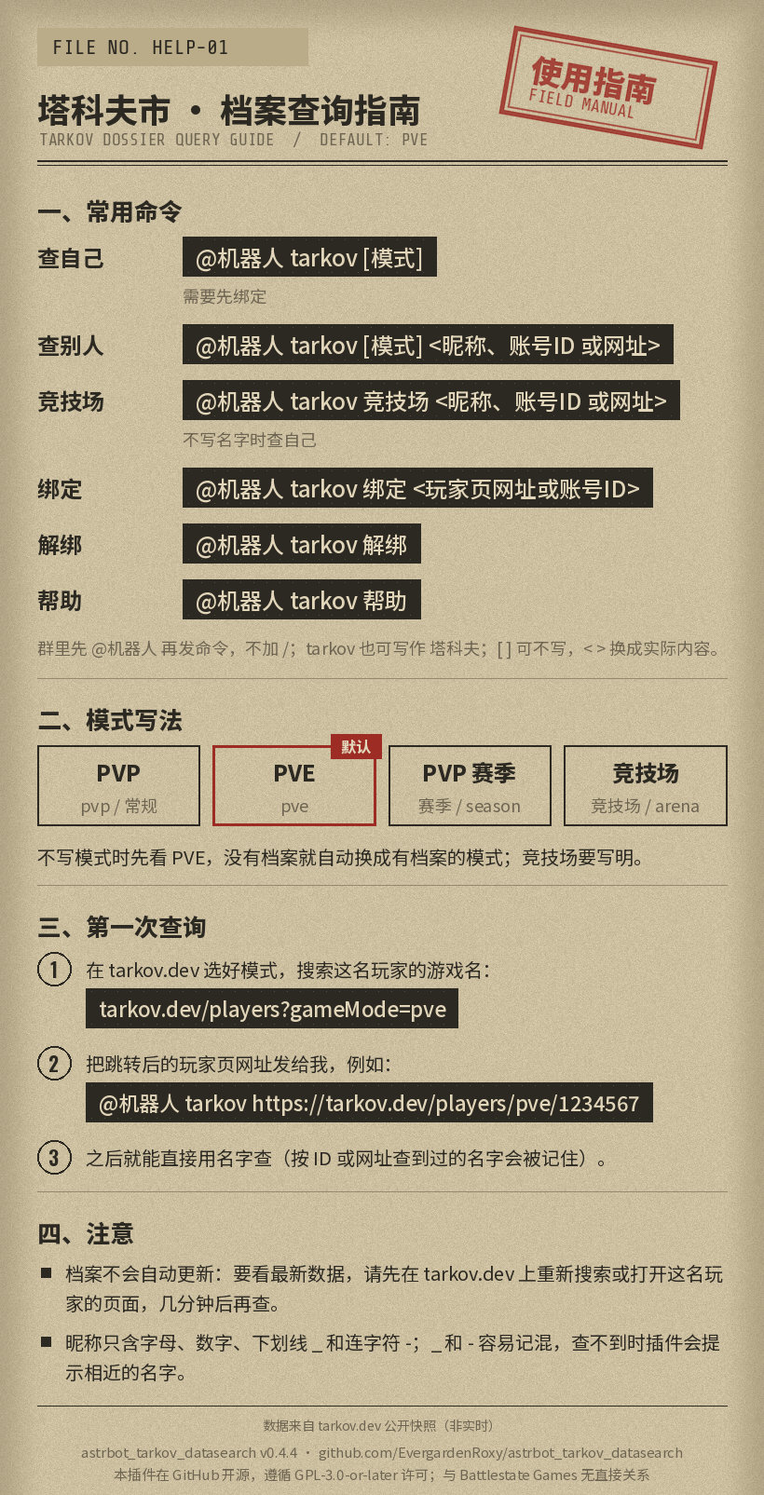
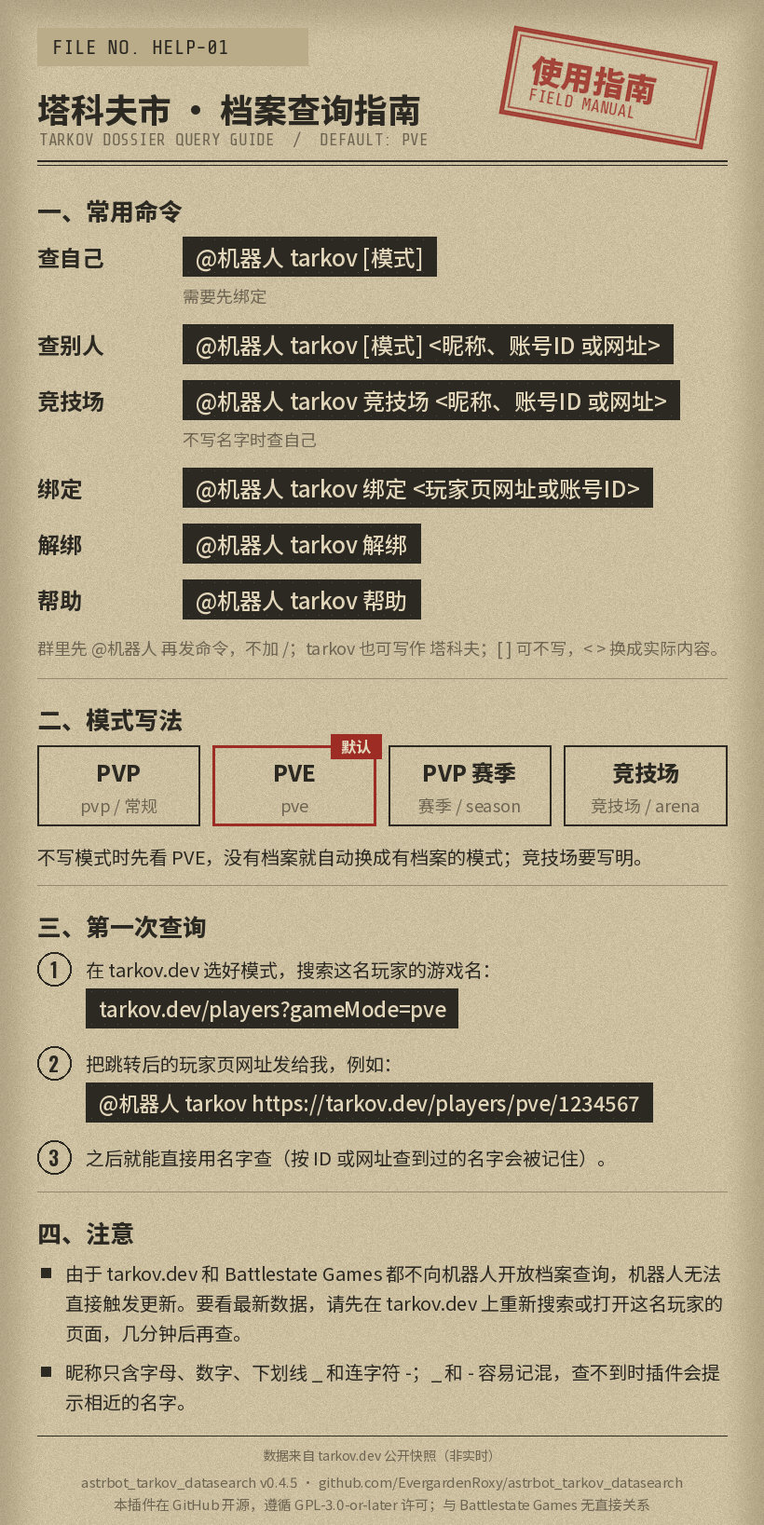
Release 0.4.5: server status, Boss spawn rates, QQ official command entry
Claude-Session: https://claude.ai/code/session_0173oty1rPcMj9BNxsmXo6Ca

diff --git a/tools/build_preview.py b/tools/build_preview.py
@@ -1,4 +1,4 @@
-"""Rebuild docs/preview.jpg, docs/arena_preview.jpg and docs/help_preview.jpg, and print the README text example, from invented profiles.
+"""Rebuild docs/preview.jpg, arena_preview.jpg, help_preview.jpg, boss_preview.jpg, boss_changes_preview.jpg and status_preview.jpg, and print the README text example, from invented profiles.
 
     python tools/build_preview.py
 
@@ -21,16 +21,73 @@ from fixtures import arena_profile, profile  # noqa: E402
 from tarkov_core import COMMAND_STYLES  # noqa: E402
 from tarkov_core.arena import build_arena_card, summarize_arena  # noqa: E402
 from tarkov_core.arena_image import render_arena_image  # noqa: E402
+from tarkov_core.boss_monitor import build_table, normalize_bosses  # noqa: E402
+from tarkov_core.boss_table_image import MAP_LABELS, change_lines, paginate_table, render_boss_page  # noqa: E402
 from tarkov_core.card import build_card  # noqa: E402
 from tarkov_core.help_image import render_help_image  # noqa: E402
 from tarkov_core.image import render_image  # noqa: E402
 from tarkov_core.modes import page_url, search_url  # noqa: E402
 from tarkov_core.output import render_text  # noqa: E402
 from tarkov_core.profile import summarize  # noqa: E402
+from tarkov_core.server_status import normalize_status  # noqa: E402
+from tarkov_core.status_image import render_status_image  # noqa: E402
 
 SKILLS = {'Endurance': 5100, 'Strength': 5100, 'Metabolism': 5100, 'Attention': 5100, 'Charisma': 4000,
           'Perception': 3500, 'Search': 3000, 'Surgery': 2600, 'Vitality': 2500, 'Throwing': 2000, 'MagDrills': 1800,
           'Health': 1500, 'StressResistance': 1200, 'Assault': 1000}
+
+NOW = 1791000000
+# Invented Boss rates for the documentation pictures (not real game data).
+BOSS_SAMPLE = {
+    '55f2d3fd4bdc2d5f408b4567': {'bossBully': ['0.35']}, '59fc81d786f774390775787e': {'bossBully': ['0.35']},
+    '56f40101d2720b2a4d8b45d6': {'bossBully': ['0.35']}, '5704e3c2d2720bac5b8b4567': {'bossKojaniy': ['0.4'], 'bossBully': ['0.3']},
+    '5704e554d2720bac5b8b456e': {'bossKnight': ['0.6'], 'bossBully': ['0.25']}, '5714dbc024597771384a510d': {'bossBoar': ['0.4', '1']},
+    '5704e5fad2720bc05b8b4567': {'bossGluhar': ['0.35'], 'bossBully': ['0.3']},
+    '5704e4dad2720bb55b8b4567': {'bossZryachiy': ['1'], 'bossPartisan': ['0.2'], 'bossKnight': ['0.5']},
+    '5714dc692459777137212e12': {'bossSanitar': ['0.25'], 'bossKilla': ['0.4'], 'bossTagilla': ['0.3']},
+    '5b0fc42d86f7744a585f9105': {'bossSanitar': ['0.1'], 'bossKilla': ['0.5'], 'bossScourgeEventLab': ['1']},
+    '65b8d6f5cdde2479cb2a3125': {'sectantPriest': ['0.02'], 'bossKolontay': ['0.1']}}
+BOSS_NAMES = {'bossTagilla': 'Tagilla', 'bossBully': 'Reshala', 'bossKojaniy': 'Shturman', 'bossSanitar': 'Sanitar',
+              'bossKilla': 'Killa', 'bossGluhar': 'Glukhar', 'bossZryachiy': 'Zryachiy', 'bossBoar': 'Kaban',
+              'bossKolontay': 'Kollontay', 'bossPartisan': 'Partisan', 'sectantPriest': 'Priest', 'bossKnight': 'Knight',
+              'bossScourgeEventLab': 'Scourge'}
+
+
+def boss_state(sample):
+    maps = {}
+    for map_id, name in MAP_LABELS:
+        records = [{'mob': mob, 'spawnChance': float(rate), 'spawnTime': i, 'spawnTimeRandom': False, 'spawnLocations': []}
+                   for mob, rates in sample.get(map_id, {}).items() for i, rate in enumerate(rates)]
+        maps[map_id] = {'name': name, 'bosses': records}
+    mobs = {mob: {'name': name, 'normalizedName': 'scourge' if mob == 'bossScourgeEventLab' else mob.lower()}
+            for mob, name in BOSS_NAMES.items()}
+    return normalize_bosses({'maps': maps, 'mobs': mobs})
+
+
+def boss_pictures():
+    meta = {'mode': 'pve', 'checked_at': NOW, 'fetched_at': NOW-300, 'stale': False}
+    before = boss_state(BOSS_SAMPLE)
+    rows, _ = build_table(None, before)
+    query = render_boss_page(paginate_table(meta, rows)[0])
+    changed = {map_id: {mob: list(rates) for mob, rates in mobs.items()} for map_id, mobs in BOSS_SAMPLE.items()}
+    changed['5704e554d2720bac5b8b456e']['bossKnight'] = ['0.8']
+    changed['5714dbc024597771384a510d']['bossBoar'] = ['0.4']
+    changed['5704e4dad2720bb55b8b4567']['bossZryachiy'] = ['0.5']
+    changed['5b0fc42d86f7744a585f9105']['bossTagilla'] = ['1']
+    rows, _ = build_table(before, boss_state(changed))
+    page = paginate_table({**meta, 'compared_at': NOW-600}, rows)[0]
+    page['change_lines'] = change_lines(rows, {column['map_id'] for column in page['columns']})
+    return query, render_boss_page(page)
+
+
+def status_picture():
+    data = {'generalStatus': {'name': 'Global', 'statusCode': 'OK'},
+            'currentStatuses': [{'_id': 'auth', 'name': 'Authentication', 'statusCode': 'OK'},
+                                {'_id': 'match', 'name': 'Matchmaking', 'statusCode': 'OK'},
+                                {'_id': 'trading', 'name': 'Trading', 'statusCode': 'OK'}],
+            'messages': []}
+    return render_status_image({'state': normalize_status(data), 'checked_at': NOW, 'fetched_at': NOW-60,
+                                'from_cache': False, 'stale': False, 'last_modified': None})
 
 
 def demo():
@@ -51,4 +108,8 @@ if __name__ == '__main__':
     help_card = {'command': style['command'], 'note': style['note'], 'mode': 'pve', 'label': 'PVE', 'search': search_url('pve'), 'example': page_url('pve', 1234567),
                  'arena_by_default': False, 'index': None}
     (ROOT/'docs'/'help_preview.jpg').write_bytes(render_help_image(help_card))
+    boss_query, boss_changes = boss_pictures()
+    (ROOT/'docs'/'boss_preview.jpg').write_bytes(boss_query)
+    (ROOT/'docs'/'boss_changes_preview.jpg').write_bytes(boss_changes)
+    (ROOT/'docs'/'status_preview.jpg').write_bytes(status_picture())
     print(render_text(card))

diff --git a/tests/test_output.py b/tests/test_output.py
@@ -81,7 +81,7 @@ class OutputTests(unittest.TestCase):
             'Scav：战局 50，撤离 30，存活率 60.0%', '　击杀 100，死亡 10，K/D 10.00，击杀 PMC 20，PMC K/D 2.00', '　匆匆逃离 5，KIA 15，最长连续存活 5 局',
             '精英技能（2 项）：耐力、力量', '其他技能（前 2 项）：魅力 40、活力 25', '', '数据来自 tarkov.dev，档案更新于 2026-10-03 12:00（北京时间）', 'n',
             # Maintainer: every text reply ends with the repository and the open-source statement.
-            'astrbot_tarkov_datasearch v0.4.4 · https://github.com/EvergardenRoxy/astrbot_tarkov_datasearch', '本插件在 GitHub 开源，遵循 GPL-3.0-or-later 许可；与 Battlestate Games 无直接关系']))
+            'astrbot_tarkov_datasearch v0.4.5 · https://github.com/EvergardenRoxy/astrbot_tarkov_datasearch', '本插件在 GitHub 开源，遵循 GPL-3.0-or-later 许可；与 Battlestate Games 无直接关系']))
 
     def test_pmc_kd_is_pmc_kills_per_death(self):
         # Maintainer: PMC K/D = PMC kills / deaths, after the PMC kills, in every non-Arena output.
@@ -96,10 +96,10 @@ class OutputTests(unittest.TestCase):
 
     def test_markdown_ends_with_the_source(self):
         text = render_markdown(build_card(summarize(profile()), 'PVE', now=NOW))
-        self.assertTrue(text.endswith('>\n> astrbot\\_tarkov\\_datasearch v0.4.4 · https://github.com/EvergardenRoxy/astrbot_tarkov_datasearch\n'
+        self.assertTrue(text.endswith('>\n> astrbot\\_tarkov\\_datasearch v0.4.5 · https://github.com/EvergardenRoxy/astrbot_tarkov_datasearch\n'
                                       '> 本插件在 GitHub 开源，遵循 GPL-3.0-or-later 许可；与 Battlestate Games 无直接关系'))
 
     def test_prestige_and_notes(self):
         text = render(summarize(profile(info_prestigeLevel=2)), 'PVP', notes=['注意：测试'], now=NOW)
         self.assertIn('声望 2', text)
-        self.assertTrue(text.endswith('注意：测试\n' + 'astrbot_tarkov_datasearch v0.4.4 · https://github.com/EvergardenRoxy/astrbot_tarkov_datasearch' + '\n' + '本插件在 GitHub 开源，遵循 GPL-3.0-or-later 许可；与 Battlestate Games 无直接关系'))
+        self.assertTrue(text.endswith('注意：测试\n' + 'astrbot_tarkov_datasearch v0.4.5 · https://github.com/EvergardenRoxy/astrbot_tarkov_datasearch' + '\n' + '本插件在 GitHub 开源，遵循 GPL-3.0-or-later 许可；与 Battlestate Games 无直接关系'))

diff --git a/tests/test_image.py b/tests/test_image.py
@@ -86,7 +86,7 @@ class ImageTests(unittest.TestCase):
                     _, picture = draw(summarize(profile()), notes=notes)
                 (x1, y1), plugin = drawn[-2]
                 (x2, y2), licence = drawn[-1]
-                self.assertEqual(plugin, 'astrbot_tarkov_datasearch v0.4.4 · github.com/EvergardenRoxy/astrbot_tarkov_datasearch')
+                self.assertEqual(plugin, 'astrbot_tarkov_datasearch v0.4.5 · github.com/EvergardenRoxy/astrbot_tarkov_datasearch')
                 self.assertEqual(licence, '本插件在 GitHub 开源，遵循 GPL-3.0-or-later 许可；与 Battlestate Games 无直接关系')
                 # Last on the page, inside it, and centred (maintainer: they were crowded on the left).
                 self.assertGreater(y1, max(xy[1] for xy, _ in drawn[:-2]))

diff --git a/main.py b/main.py
@@ -72,7 +72,7 @@ def every(seconds):
     return f'每 {hours} 小时'
 
 
-@register('astrbot_tarkov_datasearch', 'Evergarden_Roxy', '绑定并查询塔科夫玩家档案（数据来自 tarkov.dev）', '0.4.4')
+@register('astrbot_tarkov_datasearch', 'Evergarden_Roxy', '绑定并查询塔科夫玩家档案（数据来自 tarkov.dev）', '0.4.5')
 class TarkovPlugin(Star):
     def __init__(self, context: Context, config: AstrBotConfig):
         super().__init__(context)

diff --git a/tarkov_core/__init__.py b/tarkov_core/__init__.py
@@ -1,5 +1,5 @@
 # Release version; metadata.yaml, the @register literal in main.py and CHANGELOG.md must match (tests check it).
-VERSION = '0.4.4'
+VERSION = '0.4.5'
 # Shown at the foot of every image reply (maintainer). metadata.yaml `repo` and LICENSE must match (tests check it).
 NAME = 'astrbot_tarkov_datasearch'
 REPO = 'https://github.com/EvergardenRoxy/astrbot_tarkov_datasearch'

diff --git a/README.md b/README.md
@@ -5,7 +5,7 @@
 > [!IMPORTANT]
 > **AI 制作声明：塔科夫玩家数据查询采用生成式 AI 参与架构设计、编码、文档与测试。** AI 生成或修改的内容由项目维护者审阅、验证并承担最终维护责任。
 >
-> 参与的 AI：**Claude Opus 5.5**（通过 **Claude Code**）参与 0.1.0 至 0.4.4 版本的数据源调研与实测、方案制定、编码、测试、图片回复的设计与绘制、配置页说明，以及更新日志、核对清单（`checklist.md`）与交接文档（`handoff.md`）的编写。
+> 参与的 AI：**Claude Opus 5.5**（通过 **Claude Code**）参与 0.1.0 至 0.4.4 版本的数据源调研与实测、方案制定、编码、测试、图片回复的设计与绘制、配置页说明，以及更新日志、核对清单（`checklist.md`）与交接文档（`handoff.md`）的编写。0.4.5 版本由 **Claude**（通过 **Claude Code**）接手开发，参与服务器状态、Boss 刷率、QQ 官方机器人命令入口的实现、测试与文档；Boss 图的背景纹理由维护者用 **GPT-Image-2.5-sunburst** 生成。
 
 ## tarkov.dev 对机器人调用的限制与现状
 
@@ -28,6 +28,9 @@
 - 竞技场：分非排位和排位显示对局、击杀、死亡、K/D、最佳 ARP 和段位、最长连杀、最长连胜，以及各模式的胜场、胜率和 MVP。
 - 每次回复附上这名玩家的 tarkov.dev 页面链接和档案更新时间，超过 30 天没有更新会注明；按旧名字查到改过名的玩家时会注明现在的昵称。
 - 三种回复方式（图片、文字、Markdown 文字）；支持所有人、仅管理员、管理员和指定用户三种权限，也可限定聊天。
+- **服务器状态**（0.4.5 新增，默认关闭）：`@机器人 tarkov status` 回复服务器及各组件的状态图片，可开启状态变化推送。
+- **Boss 刷率**（0.4.5 新增，默认关闭）：`@机器人 tarkov boss` 回复各地图日常 Boss 与三狗的刷率全表图，另显示实验室等地图上的活动 Boss；刷率有变化时可推送。
+- **QQ 官方机器人**：支持 `@机器人 /命令` 写法（见“命令写法”设置）。
 
 ## 安装与配置
 
@@ -91,6 +94,50 @@
   | A+ | Professional | 7001–7900 |
   | S 及以上 | 竞技场前100名玩家 | 7900 以上（不显示具体 ARP） |
 
+## 服务器状态与 Boss 刷率（可选功能）
+
+这两项功能读取 [json.tarkov.dev](https://json.tarkov.dev) 的公开游戏数据（不是玩家档案），**默认关闭**，由管理员在配置页逐项开启。关闭时不下载对应数据，也不启动后台任务。回复目前**只有图片**，不受“输出方式”设置影响；文字和 Markdown 版本暂未提供。
+
+**命令**（`@机器人` 写法与 `/` 写法都能用，见“命令写法”）：
+
+```text
+@机器人 tarkov status                 （服务器状态；也可写 状态）
+@机器人 tarkov boss                   （Boss 刷率全表，所有监控模式各一张）
+@机器人 tarkov boss pve               （只看 PVE；也可写 pvp、赛季）
+@机器人 tarkov boss 变化              （最近一次刷率变化，变化标红，图下方文字说明）
+@机器人 tarkov boss 页 <快照编号> <页码>（长表续页，编号在图下方注明）
+```
+
+另外还有不加 `tarkov` 的短命令 `status`（状态）和 `boss`（刷率）；与其他插件冲突时，在配置里关闭“启用简短查询命令”，`tarkov status`、`tarkov boss` 仍可用。
+
+**设置**（各项都在配置页，保存后重载生效）：
+
+- **服务器状态图片查询**、**服务器状态变化图片播报**、**服务器状态轮询间隔**（2～30 分钟，默认 5）、**播报目标**、**允许向 QQ 官方机器人会话播报状态**。
+- **Boss 刷率功能总开关**：关闭后整个 Boss 功能停用，不能查询，也不会轮询或推送。
+- **Boss 刷率变化推送**：只控制后台轮询和推送，关闭后查询照常；开启还要求总开关已开、有监控模式和播报目标。**Boss 刷率轮询间隔**（2～30 分钟，默认 10）、**监控模式**（默认 pvp、pve、赛季）、**播报目标**、**允许向 QQ 官方会话播报 Boss 刷率**。
+- **播报目标**要填完整的 AstrBot 会话标识（聊天中发送 `/sid` 查看），最多 50 个；留空就不轮询、不播报。播报不会发给所有会话，只发给你填写的目标。首次成功只建立基线，不推送；之后有变化才推送。插件只能“提交”消息，不能确认对方收到。
+- **公共游戏数据缓存时间**（默认 5 分钟）：状态和 Boss 共用，只在过期后的查询里检查更新。
+- **手动拉取/更新 Boss 头像**：执行一次后自动关闭，头像从 assets.tarkov.dev 取得，缓存 365 天；平时不会自动下载，没有头像时用占位图。
+- **不当作活动 Boss 的怪物**（高级）：见下。
+
+**Boss 图怎么看**：
+
+- 行是 Boss，列是地图（中心区、白天工厂、夜间工厂、海关、森林、海岸线、立交桥、储备站、灯塔、塔科夫街区、实验室），格子里是刷率，左上角写模式。固定的行是 Tagilla、Reshala、Shturman、Sanitar、Killa、Glukhar、Zryachiy、Kaban、Kollontay、Partisan、邪教徒祭司和三狗 GOONS。同一格里有多个概率时分别显示，不相加。空白表示上游没有列出。
+- 100% 的刷率用红色粗体，该 Boss 的名字也标红。
+- **活动 Boss**：固定行之外，地图上列出的 Boss 记录，除 Raider、黑色军团、USEC、BEAR、游荡者、守军这几类普通怪物之外，都显示为“活动 <名字>”行，最多 3 行，超出时注明数量。上游新增了不想显示的普通怪物时，把它的 `normalizedName`（例如 `raider`）填进“不当作活动 Boss 的怪物”。
+- **变化推送**：图和全表相同，变化的格子标红，图下方用文字列出“本次变化”，例如“三狗 GOONS（海岸线）：60%→80%”；活动 Boss 出现或结束也会列出。格子里只显示新值。
+- 没有包含在表里的：破冰船、原中心区、实验室 Dark、迷宫、中心区教程、码头，以及普通 AI。
+
+![服务器状态示例](docs/status_preview.jpg)
+
+![Boss 刷率示例](docs/boss_preview.jpg)
+
+![Boss 变化推送示例](docs/boss_changes_preview.jpg)
+
+这些示例的数值都是虚构的，由 `tools/build_preview.py` 生成。
+
+**注意**：QQ 官方机器人的图片回复和主动推送（群权限、平台限制）还没有在真实环境里验证过；不同 AstrBot 版本和机器人权限对主动推送的支持不同，开启前请先在测试群里试一次。
+
 ## 回复方式
 
 在配置“输出方式”中选择，默认是图片：
@@ -99,7 +146,7 @@
 - **文字**：纯文字，任何平台都能正常显示。
 - **Markdown 文字**：带标题、表格和加粗，适合 Telegram、Discord 等；在 QQ 等平台上会显示出原始符号。
 
-`@机器人 tarkov 帮助` 跟随这个设置：选“图片”时回复一张用法图片，否则回复文字版用法。找不到玩家、同名列表和出错提示，无论选哪种方式都以文字回复。
+`@机器人 tarkov 帮助` 跟随这个设置：选“图片”时回复一张用法图片，否则回复文字版用法。找不到玩家、同名列表和出错提示，无论选哪种方式都以文字回复。服务器状态和 Boss 刷率只回复图片。
 
 ![图片回复示例](docs/preview.jpg)
 
@@ -126,7 +173,7 @@ Scav：战局 50，撤离 30，存活率 60.0%
 
 数据来自 tarkov.dev，档案更新于 2026-10-03 12:00（北京时间）
 数据不会自动更新：在 tarkov.dev 用该模式搜索一次这名玩家，或打开 https://tarkov.dev/players/pve/1234567，即可刷新档案，几分钟后再查。
-astrbot_tarkov_datasearch v0.4.4 · https://github.com/EvergardenRoxy/astrbot_tarkov_datasearch
+astrbot_tarkov_datasearch v0.4.5 · https://github.com/EvergardenRoxy/astrbot_tarkov_datasearch
 本插件在 GitHub 开源，遵循 GPL-3.0-or-later 许可；与 Battlestate Games 无直接关系
 ```
 
@@ -142,7 +189,8 @@ astrbot_tarkov_datasearch v0.4.4 · https://github.com/EvergardenRoxy/astrbot_ta
 - **默认模式**：命令里没写模式时使用，默认 PVP。
 - **不写模式时也查竞技场**：默认关闭，开启后每次多一个请求。
 - **输出方式**：图片（默认）、文字或 Markdown 文字。
-- **命令写法**：`@机器人 tarkov`（默认）或 `/tarkov`，只影响显示。
+- **命令写法**：`@机器人 tarkov`（默认）、`/tarkov`，或 QQ 官方机器人提及后加斜杠的 `@机器人 /tarkov`，只影响显示。
+- **QQ 官方机器人提及后斜杠命令兼容**：默认开启，让 `@机器人 /tarkov …`、`/status`、`/boss` 在 QQ 官方平台也能触发；关闭不影响框架本来能识别的命令。
 - **谁可以使用**：所有人（默认）、仅管理员，或管理员和指定用户。“管理员”指 AstrBot 管理员，不是 QQ 群管理员。
 - **指定用户 / 限定聊天**：填写平台用户 ID（例如 QQ 号）和 AstrBot 会话标识（聊天中发送 `/sid` 查看），留空不限制聊天。手工编辑配置文件时应为列表；写成其他类型时拒绝所有人。
 - **显示的技能数**：精英技能总是全部列出，这里设置其余技能显示几项，默认 10，设为 0 不显示。
@@ -158,6 +206,9 @@ astrbot_tarkov_datasearch v0.4.4 · https://github.com/EvergardenRoxy/astrbot_ta
   - 绑定关系：平台和用户 ID 的带密钥哈希（HMAC-SHA256）→ 账号 ID 和昵称，不保存 QQ 号等原始 ID；`@机器人 tarkov 解绑` 会删除自己的绑定。密钥是第一次运行时随机生成的 `binding.key`，删除它会让所有绑定失效。拿到数据库但没有密钥无法还原 QQ 号，同时拿到密钥的人仍可逐个尝试，请像对待聊天记录一样保管整个数据目录。
   - 所有人共享的“名字 → 账号 ID”记录：每次绑定、每次查到档案时更新，最多 20 万条，超出时删除最久没见过的。这些名字本来就在 tarkov.dev 公开。
 - `names-profile.sqlite3`、`names-pve.sqlite3`、`names-pvp-season.sqlite3`：只在开启昵称名单后生成，可以随时删除。
+- `public-data/resources.sqlite3`：服务器状态和 Boss 的公共游戏数据缓存（最多 32 项、约 128 MiB），首次查询时才生成，可以随时删除。
+- `notifications.sqlite3`、`boss-notifications.sqlite3`：只在开启并配置了对应播报后生成，保存变化基线、待发事件、逐目标的发送状态和长表快照（事件保留 7 天）；删除后下次观察会重新静默建立基线。
+- `boss-portraits/`：只在手动更新 Boss 头像后生成，是缩小的头像缓存，可以随时删除。
 - 玩家档案只缓存在内存中，图片在内存中生成后直接发送，都不写入磁盘。
 - 插件不另存“谁查询了谁”；但 AstrBot 的日志会记下每条消息的发送者和内容，插件日志里也有被查询的昵称或 ID，请像对待聊天记录一样保管日志。
 
@@ -165,7 +216,7 @@ astrbot_tarkov_datasearch v0.4.4 · https://github.com/EvergardenRoxy/astrbot_ta
 
 本项目采用 **GNU General Public License v3.0 or later（GPL-3.0-or-later）**。完整许可见 [LICENSE](LICENSE)，数据来源与第三方声明见 [THIRD_PARTY.md](THIRD_PARTY.md)。
 
-图片使用的三款字体（思源黑体 Noto Sans SC 的裁剪版、Oswald、Share Tech Mono）采用 SIL Open Font License 1.1，许可文本与字体一起放在 `tarkov_core/fonts/`。
+Boss 图的背景纹理是 AI 生成的图片（见 [THIRD_PARTY.md](THIRD_PARTY.md)）。图片使用的三款字体（思源黑体 Noto Sans SC 的裁剪版、Oswald、Share Tech Mono）采用 SIL Open Font License 1.1，许可文本与字体一起放在 `tarkov_core/fonts/`。
 
 本插件与 Battlestate Games 和 tarkov.dev 没有关联。
 

diff --git a/CHANGELOG.md b/CHANGELOG.md
@@ -1,11 +1,47 @@
 [![AI Co-created](https://img.shields.io/badge/AI-Claude%20Opus%205.5%20%2B%20Claude%20Code-D97757?style=for-the-badge&logo=anthropic&logoColor=white)](README.md#ai-制作声明)
 
 > [!IMPORTANT]
-> **AI 共创声明：本更新日志所记录的修改与日志本身，由项目维护者与生成式 AI 共同完成。** **Claude Opus 5.5**（通过 **Claude Code**）参与 0.1.0 至 0.4.4 版本的数据源调研、方案制定、编码、测试、图片回复的设计与绘制，以及本日志与交接文档 `handoff.md` 的编写。AI 生成或修改的内容由项目维护者审阅、验证并承担最终维护责任。完整声明见 [README](README.md#ai-制作声明)。
+> **AI 共创声明：本更新日志所记录的修改与日志本身，由项目维护者与生成式 AI 共同完成。** **Claude Opus 5.5**（通过 **Claude Code**）参与 0.1.0 至 0.4.4 版本的数据源调研、方案制定、编码、测试、图片回复的设计与绘制，以及本日志与交接文档 `handoff.md` 的编写。0.4.5 版本由 **Claude**（通过 **Claude Code**）接手开发，Boss 图背景纹理由维护者用 GPT-Image-2.5-sunburst 生成。AI 生成或修改的内容由项目维护者审阅、验证并承担最终维护责任。完整声明见 [README](README.md#ai-制作声明)。
 
 # 更新日志
 
 格式参考 [Keep a Changelog](https://keepachangelog.com/zh-CN/1.1.0/)。
+
+## 0.4.5 - 2026-10-24
+
+> 新增服务器状态、Boss 刷率两项可选功能和 QQ 官方机器人命令入口，由维护者提出需求，**Claude**（通过 **Claude Code**）实现。**尚未在 QQ 等聊天平台实测图片发送和主动推送。** 依据与验证见 [handoff.md](handoff.md)。
+
+### 新增
+
+- **服务器状态**（默认关闭）：`@机器人 tarkov status`（或 `状态`）回复服务器和各组件的状态图片，显示检查和取得时间、最近公告摘要，请求失败时注明显示的是上次成功的数据，不会说成“停服”。可开启状态变化推送（轮询间隔 2～30 分钟，默认 5）。
+- **Boss 刷率**（默认关闭）：`@机器人 tarkov boss [pvp|pve|赛季] [变化]` 回复深色全表图，行是 11 类日常 Boss 与三狗 GOONS，列是 11 张地图（中心区、白天工厂、夜间工厂、海关、森林、海岸线、立交桥、储备站、灯塔、塔科夫街区、实验室）；同格多个概率分别显示，100% 红色粗体；长表可用 `boss 页 <快照编号> <页码>` 续看。
+  - **活动 Boss**：日常名单之外、又不是 Raider / 黑色军团 / USEC / BEAR / 游荡者 / 守军的 Boss 记录，显示为最多 3 行“活动 <名字>”（现在是实验室的 Scourge）。设置“不当作活动 Boss 的怪物”可把上游新增的普通怪物排除。
+  - **变化推送**：有变化时推送全表，变化的格子标红，图下方文字列出“本次变化”（新值、旧值、新增、移除）；首次成功只建立基线。两个开关：“Boss 刷率功能总开关”管整个功能，“Boss 刷率变化推送”只管推送。轮询间隔 2～30 分钟，默认 10。
+  - **头像**：只在管理员打开“手动拉取/更新 Boss 头像”并保存后下载一次，缓存 365 天，平时不自动下载；没有时用占位图。图片背景是维护者提供的 AI 生成纹理。
+- **QQ 官方机器人命令入口**：`@机器人 /命令` 写法也能触发（`qq_official`、`qq_official_webhook`）；命令写法增加第三个选项“@机器人 /tarkov”；新增设置“QQ 官方机器人提及后斜杠命令兼容”（默认开启）和“启用简短查询命令”（`status`、`boss` 短命令，冲突时可关闭，`tarkov status`、`tarkov boss` 仍可用）。
+- **公共游戏数据缓存**：状态和 Boss 的数据来自 json.tarkov.dev，单个 SQLite 文件按需缓存，支持条件请求，失败时可明确标注地显示上次数据；设置“公共游戏数据按需缓存时间”（默认 5 分钟）。
+- **播报基础设施**：明确的目标列表（最多 50 个会话）、逐目标记录发送状态、权限错误暂停该目标、重启后不重发已提交的事件；不承诺“恰好一次”送达。
+- 新增示例图片 `docs/status_preview.jpg`、`docs/boss_preview.jpg`、`docs/boss_changes_preview.jpg`（虚构数据，由 `tools/build_preview.py` 生成）。
+
+### 修复
+
+- 绑定账号时，某个模式的请求失败（例如超时）被当成“没有档案”，回复里错误地建议去网站搜索；现在失败的模式单独说明，只有确认 404 的模式才给出搜索提示。
+
+### 变更
+
+- 版本号升至 0.4.5。
+- 开发中曾加入“物品查询”，因无法按俗称检索、使用效率低，在发布前剥离并封存（远端分支 `archive/item-query`，说明见 `docs/archive/item-query.md`），**本版不包含物品查询**。
+- 字体子集按本版文字重新生成（278 KB）。
+
+### 限制
+
+- 状态和 Boss 目前**只回复图片**，不受“输出方式”设置影响；文字和 Markdown 版本暂未提供。
+- QQ 官方机器人上的图片发送、主动群推送和平台权限尚未实机验证；不同 AstrBot 版本和机器人权限对主动消息的支持不同。
+- Boss 图背景使用的生成模型的使用条款尚未记录在 `THIRD_PARTY.md`，发布前需补上。
+
+### 测试
+
+- 单元测试 294 项（新增公共数据缓存、状态、Boss 监控与图片、活动 Boss 规则、两个开关、变化说明、背景、播报基础等测试）；AstrBot 4.16.0 官方代码上的命令路由回放 101 项通过（`tools/verify_qq_routes.py`，外部边界为测试替身，不含真实 QQ 发送）。
 
 ## 0.4.4 - 2026-10-14
 

diff --git a/checklist.md b/checklist.md
@@ -10,10 +10,10 @@
 
 ## 当前状态
 
-- 当前版本 **0.4.4**：0.3.0 改为“绑定身份 + 查询”，0.4.0 加入图片页脚和塔科夫竞技场查询，0.4.1 加入名字相近的提示，0.4.2 加入 PMC K/D、竞技场段位，并按维护者意见调整了图片文字和回复末尾的开源声明，0.4.3 把帮助改为图片、链接总是以文字发出，并把所有命令写成“@机器人 tarkov”，0.4.4 加入“命令写法”设置，可在“@机器人 tarkov”和“/tarkov”之间切换。尚未在聊天平台实测（维护者对 0.3.0 做过小范围封闭测试）。
+- 当前版本 **0.4.5**：0.4.5 加入服务器状态、Boss 刷率和 QQ 官方机器人命令入口（见下方“0.4.5”一节）。此前：0.3.0 改为“绑定身份 + 查询”，0.4.0 加入图片页脚和塔科夫竞技场查询，0.4.1 加入名字相近的提示，0.4.2 加入 PMC K/D、竞技场段位，并按维护者意见调整了图片文字和回复末尾的开源声明，0.4.3 把帮助改为图片、链接总是以文字发出，并把所有命令写成“@机器人 tarkov”，0.4.4 加入“命令写法”设置，可在“@机器人 tarkov”和“/tarkov”之间切换。尚未在聊天平台实测（维护者对 0.3.0 做过小范围封闭测试）。
 - 已用真实网络把插件的查询流程完整跑过多遍：AstrBot 本身用测试替身代替，数据从 `players.tarkov.dev` 实际下载。用账号 ID、昵称和网址查过 PVP、PVE、赛季和竞技场。其中一份 PVE 档案与维护者从 tarkov.dev 网站下载的个人档案逐字段比对，完全一致。
-- 开发分支 `1024`（尚未发布，版本号仍为 0.4.4）已加入服务器状态、Boss 刷率、公共数据缓存和 QQ 官方机器人路由，见下方“`1024` 开发分支”一节和 handoff.md §3、§9。这些新功能默认关闭；目前只会回复图片，按维护者 2026-10-24 的更正，图片是默认、文字和 Markdown 仍要保留用于兼容，这部分暂缓。物品查询已做完又封存（见同一节）。绑定时“请求失败的模式被当成没有档案”的问题已修复。
-- 自动测试共 294 项（`1024` 分支），全部通过。0.4.4 发布时是 193 项。每次推送代码时，GitHub Actions 会在 Python 3.12 和 3.13 上各跑一遍。
+- 0.4.5（开发分支 `1024`）已加入服务器状态、Boss 刷率、公共数据缓存和 QQ 官方机器人路由，见下方“0.4.5”一节和 handoff.md §3、§9。这些新功能默认关闭；目前只会回复图片，按维护者 2026-10-24 的更正，图片是默认、文字和 Markdown 仍要保留用于兼容，这部分暂缓。物品查询已做完又封存（见同一节）。绑定时“请求失败的模式被当成没有档案”的问题已修复。
+- 自动测试共 294 项，全部通过。0.4.4 发布时是 193 项。每次推送代码时，GitHub Actions 会在 Python 3.12 和 3.13 上各跑一遍。
 
 修改由 Claude Opus 5.5（通过 Claude Code）完成，经项目维护者审阅。做法与 spark 项目相同：先写测试，再改代码，最后跑完全部测试。另外用“故意改坏代码”的方式检查测试：把关键保护逐一从代码里去掉，确认每一项都会被测试发现（每一轮修改都做，数量见下文各节）。
 
@@ -22,7 +22,7 @@
 ```bash
 pip install -r requirements.txt
 python -m unittest discover -s tests   # 1024 分支应显示 Ran 294 tests ... OK
-python tools/package_plugin.py         # 生成 dist/astrbot_tarkov_datasearch-v0.4.4.zip
+python tools/package_plugin.py         # 生成 dist/astrbot_tarkov_datasearch-v0.4.5.zip
 ```
 
 在聊天中核对：
@@ -64,7 +64,7 @@ python tools/package_plugin.py         # 生成 dist/astrbot_tarkov_datasearch-v
 
 按版本从新到旧排列。
 
-### `1024` 开发分支（未发布）：状态、Boss 刷率、QQ 路由；物品查询已封存
+### 0.4.5：状态、Boss 刷率、QQ 路由；物品查询已封存
 
 1. **做了什么**（均默认关闭，管理员在设置里逐项开启）
    - **公共数据缓存**：从 `json.tarkov.dev` 读取游戏公共数据，只存本地一个 SQLite 文件，按需检查更新，不启动后台任务。

diff --git a/handoff.md b/handoff.md
@@ -27,9 +27,9 @@ earlier). From now on new work is appended as new sections.
 |---|---|
 | Task | AstrBot plugin to look up Escape from Tarkov player profiles in chat (maintainer request, 2026-10-13); since 2026-10-24 also public game data: server status, Boss spawn rates, items. |
 | License / AI statement | GPL-3.0-or-later. README and CHANGELOG state the plugin was written by Claude Opus 5.5 (via Claude Code) and reviewed by the maintainer. |
-| Released | 0.4.4 (`tarkov_core/__init__.py` `VERSION`, `metadata.yaml`, `@register(...)`, CHANGELOG; `test_version_is_consistent`). Release branches `v0.3.0` … `v0.4.4` are stacked one commit each (§10). |
-| Work branch | `1024` (head `5630c68` + later). Version number still 0.4.4: status and Boss features are **unreleased**; the item query was archived (§11). No PR. |
-| Tests | 275 on `1024` (307 before the item query was archived, §11) (`python -m unittest discover -s tests`, needs `pip install -r requirements.txt`; local HTTP servers need sockets). CI runs Python 3.12 and 3.13. 0.4.4 had 193. |
+| Released | 0.4.5 (2026-10-24; 0.4.4 before) (`tarkov_core/__init__.py` `VERSION`, `metadata.yaml`, `@register(...)`, CHANGELOG; `test_version_is_consistent`). Release branches `v0.3.0` … `v0.4.4` are stacked one commit each (§10). |
+| Work branch | `1024` carries 0.4.5 (status, Boss, QQ routes). A PR to `main` is open for review; its history differs from `main`'s (§10), so GitHub shows conflicts; the item query was archived (§11). |
+| Tests | 294 on `1024` (307 before the item query was archived, §11; 193 at 0.4.4) (`python -m unittest discover -s tests`, needs `pip install -r requirements.txt`; local HTTP servers need sockets). CI runs Python 3.12 and 3.13. 0.4.4 had 193. |
 | AstrBot evidence | 4.16.0 wheel read and its registration/wake/filter/parser bodies replayed by `tools/verify_qq_routes.py` (101 cases after the item query was archived; SDK and network boundaries doubled). Plugin patterns copied from the spark plugin, which was live-tested on 4.28.2. The maintainer ran a small closed test of 0.3.0. **No live AstrBot run of the 1024 features; QQ image delivery and proactive push are unverified.** |
 
 ## 2. Data sources and evidence
